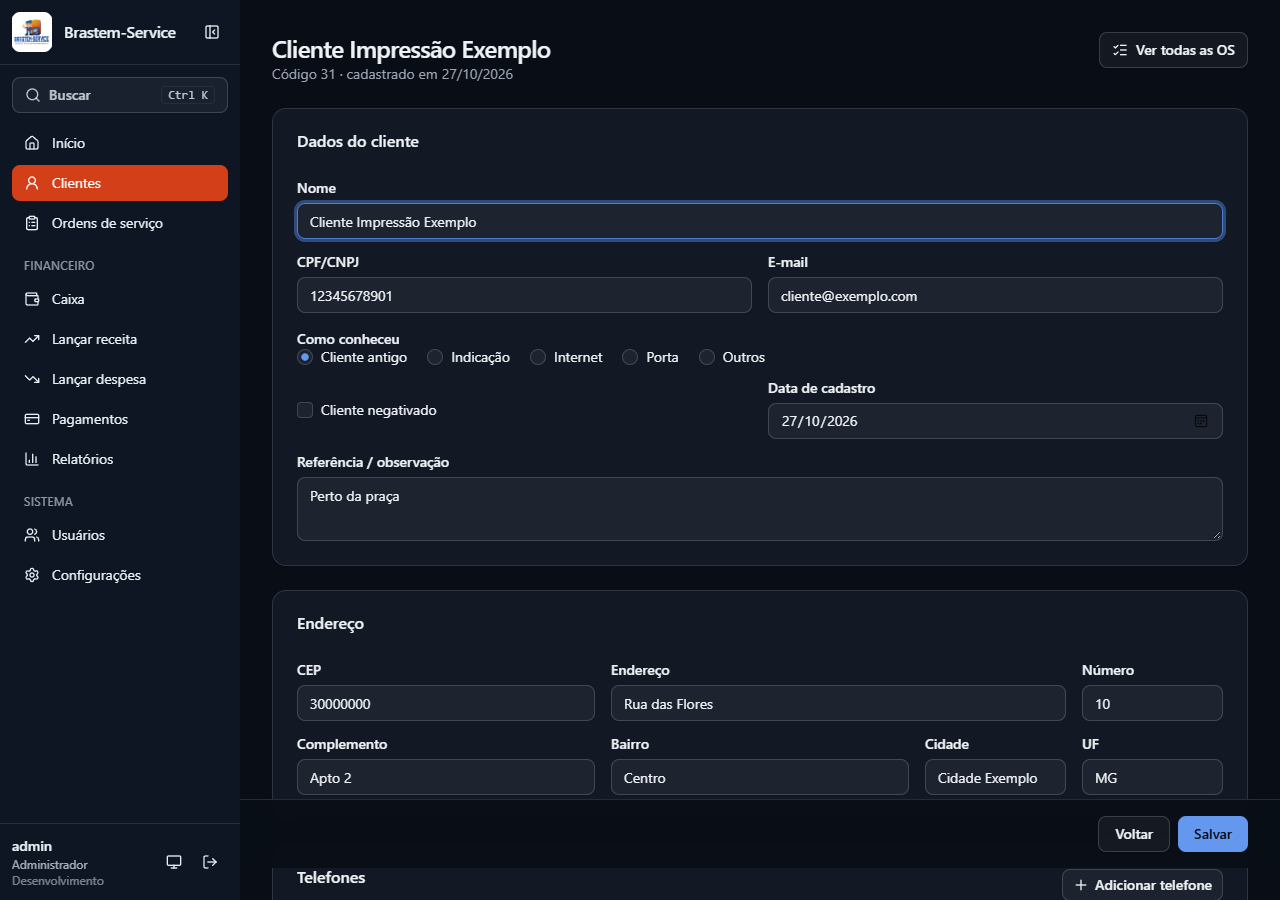
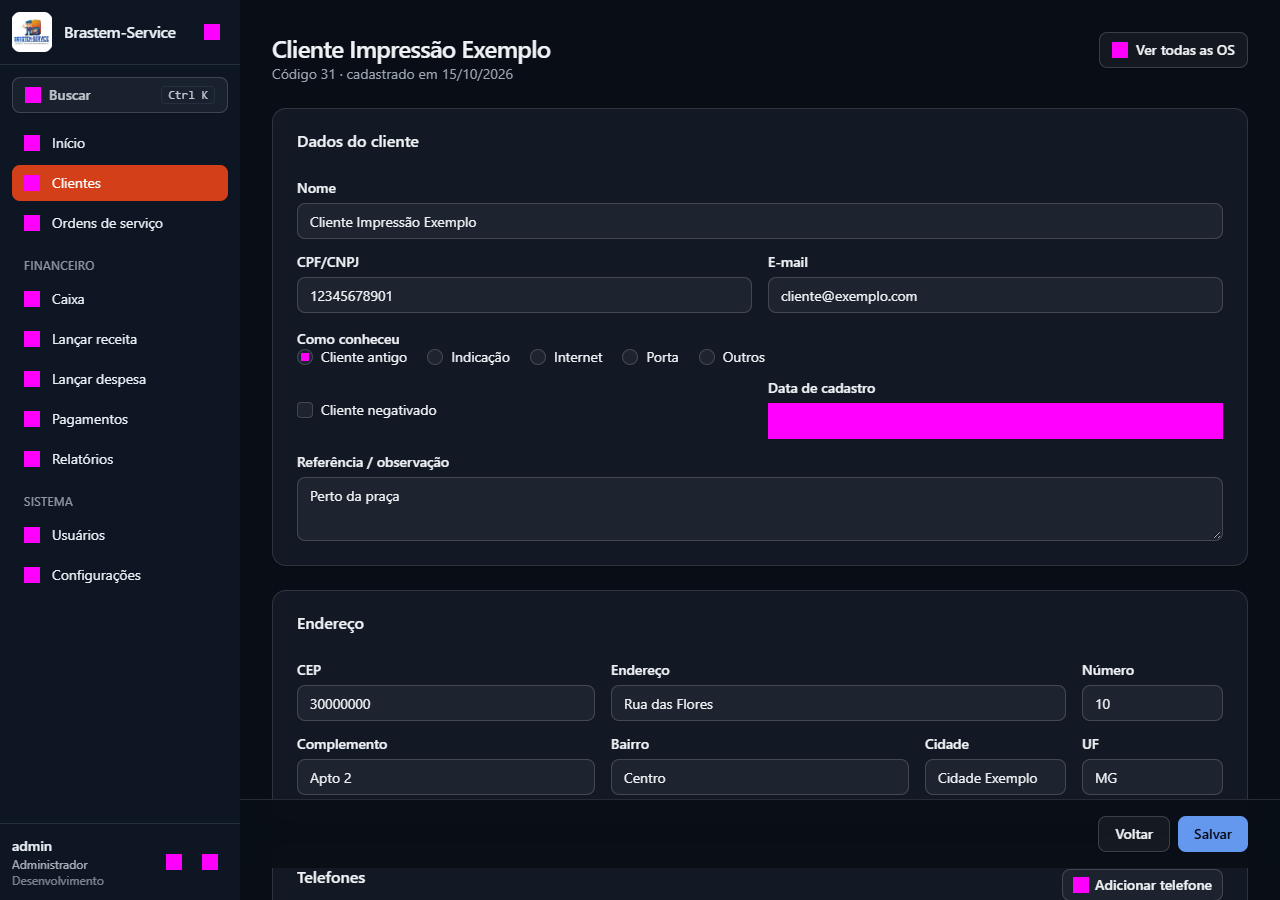
test(client): fotos das telas sem o que muda de um Windows para outro
Ícones (SVG) e campo de data (formato do sistema) ficam cobertos; foco tirado antes da foto; a data de
cadastro dos dados inventados é fixa, para a foto não mudar com o dia.

diff --git a/apps/client/visual/telas.visual.ts b/apps/client/visual/telas.visual.ts
@@ -1,5 +1,17 @@
 import { expect, type Page, test } from '@playwright/test'
 
+/**
+ * O que muda de um Windows para outro sem ser defeito: o traço dos ícones (SVG) e o campo de data, que o
+ * navegador escreve no formato do sistema (27/10/2026 aqui, 10/27/2026 no CI). Ficam cobertos na foto.
+ */
+const fotoDaTela = async (page: Page, nome: string) => {
+  await page.evaluate(() => (document.activeElement as HTMLElement | null)?.blur())
+  await expect(page).toHaveScreenshot(nome, {
+    fullPage: true,
+    mask: [page.locator('svg[class*="lucide"]'), page.locator('input[type=date]')],
+  })
+}
+
 /** Fotos das telas e da OS impressa (R-TST-08). Dados de `scripts/semear.mjs`, todos inventados. */
 const ordem = () => process.env.ORDEM_PARA_IMPRIMIR
 
@@ -36,7 +48,7 @@ for (const tema of ['light', 'dark'] as const) {
       await expect(
         page.getByRole('cell', { name: 'Cliente Impressão Exemplo', exact: true }),
       ).toBeVisible()
-      await expect(page).toHaveScreenshot(`clientes-${tema}.png`, { fullPage: true })
+      await fotoDaTela(page, `clientes-${tema}.png`)
     })
 
     test('ficha do cliente', async ({ page }) => {
@@ -44,7 +56,7 @@ for (const tema of ['light', 'dark'] as const) {
       await expect(page.getByLabel('Nome', { exact: true })).toHaveValue(
         'Cliente Impressão Exemplo',
       )
-      await expect(page).toHaveScreenshot(`cliente-${tema}.png`, { fullPage: true })
+      await fotoDaTela(page, `cliente-${tema}.png`)
     })
   })
 }
